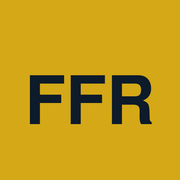
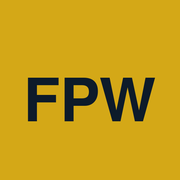
Rebrand: Florida Flamingo Report -> Florida Property Wire
Full rebrand per user request, done before any real deployment exists
(no live users/data at stake). Covers everywhere the old name/mark
showed up:

- All 12 templates: <title> tags, og:site_name/og:title/twitter:title,
  header/footer wordmark, "FFR" logo mark -> "FPW", copyright line,
  About page body copy.
- Static brand assets regenerated with the new "FPW" mark: favicon.svg
  (vector), favicon.ico, favicon-16x16.png, favicon-32x32.png,
  apple-touch-icon.png, og-image.png. Same approach as before —
  ImageMagick's own SVG rasterizer is unreliable for text positioning,
  so the PNGs were generated via its native text-draw primitive and
  verified visually before use.
- Python: urls.py module docstring, one test assertion string.
- CLAUDE.md: title + repo-path references.
- CI/infra: VPS deploy path in ci.yml, DB_NAME/DB_USER (ffr -> fpw)
  across ci.yml, .env.example, backend/.env.example, both settings
  files. backend/pyproject.toml's package name (fpr-backend -> an even
  older brand's initials -> fpw-backend), uv.lock regenerated to match.
- Deleted dead .fpr-* CSS utility classes (leftover from that same
  older brand, confirmed unused in any template) rather than renaming
  them.
- GitHub repo renamed florida-flamingo-report -> florida-property-wire
  (GitHub auto-redirects the old URL; local git remote updated
  automatically by `gh repo rename`).

Also fixed a real, unrelated bug surfaced while testing this: fixtures
[…]

Changed region(s): [[0.1389, 0.4167, 0.8611, 0.6944]]

diff --git a/backend/templates/base.html b/backend/templates/base.html
@@ -14,7 +14,7 @@
   without hitting that limit — optional, with sane defaults via the
   `default` filter for any page that doesn't pass one.
   {% endcomment %}
-  <title>{% block title %}Florida Flamingo Report{% endblock %}</title>
+  <title>{% block title %}Florida Property Wire{% endblock %}</title>
 
   <meta name="description" content="{{ meta_description|default:'Notable sales, agent moves, market trends, and neighborhood intelligence across Florida.' }}" />
 
@@ -23,9 +23,9 @@
   <link rel="apple-touch-icon" href="{% static 'apple-touch-icon.png' %}" />
 
   {# Open Graph — controls how links look when shared on Slack/Facebook/etc. #}
-  <meta property="og:site_name" content="Florida Flamingo Report" />
+  <meta property="og:site_name" content="Florida Property Wire" />
   <meta property="og:type" content="{{ og_type|default:'website' }}" />
-  <meta property="og:title" content="{{ page_title|default:'Florida Flamingo Report' }}" />
+  <meta property="og:title" content="{{ page_title|default:'Florida Property Wire' }}" />
   <meta property="og:description" content="{{ meta_description|default:'Notable sales, agent moves, market trends, and neighborhood intelligence across Florida.' }}" />
   {% if og_image %}
   <meta property="og:image" content="{{ og_image }}" />
@@ -36,7 +36,7 @@
 
   {# Twitter Card — same content, Twitter's own meta tag names #}
   <meta name="twitter:card" content="summary_large_image" />
-  <meta name="twitter:title" content="{{ page_title|default:'Florida Flamingo Report' }}" />
+  <meta name="twitter:title" content="{{ page_title|default:'Florida Property Wire' }}" />
   <meta name="twitter:description" content="{{ meta_description|default:'Notable sales, agent moves, market trends, and neighborhood intelligence across Florida.' }}" />
   {% if og_image %}
   <meta name="twitter:image" content="{{ og_image }}" />
@@ -63,10 +63,10 @@
         {# Logo + Masthead #}
         <a href="/" class="flex items-center gap-3 group">
           <div class="bg-[#d4a817] text-black font-bold text-xl px-2 py-1 flex items-center justify-center h-10 w-10">
-            FFR
+            FPW
           </div>
           <div>
-            <h1 class="font-serif text-2xl md:text-3xl font-bold tracking-tight">Florida Flamingo Report</h1>
+            <h1 class="font-serif text-2xl md:text-3xl font-bold tracking-tight">Florida Property Wire</h1>
             <p class="text-gray-400 text-xs md:text-sm tracking-wide hidden md:block">
               Notable sales, agent moves, market trends, and neighborhood intelligence across Florida.
             </p>
@@ -150,11 +150,11 @@
   <footer class="w-full border-t border-gray-200 bg-white py-12 px-4 md:px-8 mt-auto">
     <div class="max-w-7xl mx-auto flex flex-col md:flex-row justify-between items-center gap-6">
       <div class="flex items-center gap-3 opacity-50 grayscale">
-        <div class="bg-[#0d1b2a] text-white font-bold text-xl px-2 py-1 flex items-center justify-center h-10 w-10">FFR</div>
-        <span class="font-serif font-bold text-lg">Florida Flamingo Report</span>
+        <div class="bg-[#0d1b2a] text-white font-bold text-xl px-2 py-1 flex items-center justify-center h-10 w-10">FPW</div>
+        <span class="font-serif font-bold text-lg">Florida Property Wire</span>
       </div>
       <div class="flex items-center gap-4 text-sm text-gray-500">
-        <span>&copy; 2024 Florida Flamingo Report. All rights reserved.</span>
+        <span>&copy; 2024 Florida Property Wire. All rights reserved.</span>
         <a href="{% url 'article_archive' %}" class="hover:text-gray-700 underline">Articles</a>
         <a href="{% url 'unsubscribe' %}" class="hover:text-gray-700 underline">Unsubscribe</a>
       </div>

diff --git a/backend/templates/about.html b/backend/templates/about.html
@@ -1,13 +1,13 @@
 {% extends "base.html" %}
 
-{% block title %}About — Florida Flamingo Report{% endblock %}
+{% block title %}About — Florida Property Wire{% endblock %}
 
 {% block content %}
 
 <!-- Page Header -->
 <div class="w-full bg-white border-b border-gray-200 py-8 px-4 md:px-8">
   <div class="max-w-7xl mx-auto">
-    <h1 class="font-serif text-4xl md:text-5xl font-bold text-[#0d1b2a]">About Florida Flamingo Report</h1>
+    <h1 class="font-serif text-4xl md:text-5xl font-bold text-[#0d1b2a]">About Florida Property Wire</h1>
     <p class="text-lg text-gray-500 mt-2">Florida real estate intelligence, without the fluff.</p>
   </div>
 </div>
@@ -16,7 +16,7 @@
   <div class="bg-white border border-gray-200 rounded-sm shadow-sm p-8 md:p-12 prose prose-lg max-w-none text-gray-800">
 
     <p>
-      Florida Flamingo Report covers the deals, agents, and neighborhoods
+      Florida Property Wire covers the deals, agents, and neighborhoods
       shaping Florida real estate — notable sales, agent moves, market
       trends, luxury closings, and development news across South Florida,
       Tampa Bay, Orlando, Jacksonville, and the Panhandle.
@@ -45,7 +45,7 @@
 
   <!-- Subscribe CTA -->
   <div class="bg-[#0f4c5c] text-white rounded-sm p-8 shadow-sm flex flex-col items-center text-center mt-8">
-    <h3 class="font-serif font-bold text-2xl mb-2">Subscribe to Florida Flamingo Report</h3>
+    <h3 class="font-serif font-bold text-2xl mb-2">Subscribe to Florida Property Wire</h3>
     <p class="text-sm text-gray-200 mb-6 leading-relaxed max-w-md">
       Notable sales, agent moves, and market intelligence — delivered weekly.
     </p>

diff --git a/backend/static/css/input.css b/backend/static/css/input.css
@@ -22,18 +22,6 @@
   --font-family-sans: Inter, system-ui, sans-serif;
 }
 
-/* ── Brand color utilities ────────────────────────────────────────────────── */
-/* These custom classes mirror what the React app defined in index.css.        */
-/* They are plain CSS — Tailwind will include them because they're in input.css */
-
-.fpr-navy      { background-color: #0d1b2a; }
-.fpr-teal      { background-color: #0f4c5c; }
-.fpr-gold      { color: #d4a817; }
-.fpr-gold-bg   { background-color: #d4a817; }
-.fpr-coral     { color: #e05c4b; }
-.fpr-coral-bg  { background-color: #e05c4b; }
-.fpr-green     { color: #2e7d32; }
-
 /* ── Scrollbar-hiding utility ─────────────────────────────────────────────── */
 /* Used on the main nav and market strip: overflow-x-auto still lets a narrow
    viewport scroll them horizontally instead of wrapping/breaking layout, but

diff --git a/backend/templates/home.html b/backend/templates/home.html
@@ -4,7 +4,7 @@ This template extends base.html — Django renders base.html and fills its named
 block slots with the content defined below.
 {% endcomment %}
 
-{% block title %}Florida Flamingo Report — Florida Real Estate Intelligence{% endblock %}
+{% block title %}Florida Property Wire — Florida Real Estate Intelligence{% endblock %}
 
 {% block content %}
 <main class="flex-1 w-full max-w-7xl mx-auto px-4 md:px-8 py-8 md:py-10 flex flex-col gap-10">

diff --git a/backend/static/css/output.css b/backend/static/css/output.css
@@ -1747,27 +1747,6 @@
     }
   }
 }
-.fpr-navy {
-  background-color: #0d1b2a;
-}
-.fpr-teal {
-  background-color: #0f4c5c;
-}
-.fpr-gold {
-  color: #d4a817;
-}
-.fpr-gold-bg {
-  background-color: #d4a817;
-}
-.fpr-coral {
-  color: #e05c4b;
-}
-.fpr-coral-bg {
-  background-color: #e05c4b;
-}
-.fpr-green {
-  color: #2e7d32;
-}
 .no-scrollbar {
   scrollbar-width: none;
   -ms-overflow-style: none;

diff --git a/backend/templates/article_detail.html b/backend/templates/article_detail.html
@@ -1,6 +1,6 @@
 {% extends "base.html" %}
 
-{% block title %}{{ article.headline }} — Florida Flamingo Report{% endblock %}
+{% block title %}{{ article.headline }} — Florida Property Wire{% endblock %}
 
 {% block content %}
 <main class="flex-1 w-full max-w-7xl mx-auto px-4 md:px-8 py-8 flex flex-col lg:flex-row gap-10">

diff --git a/backend/templates/notable_sale_detail.html b/backend/templates/notable_sale_detail.html
@@ -1,6 +1,6 @@
 {% extends "base.html" %}
 
-{% block title %}{{ sale.title }} — Florida Flamingo Report{% endblock %}
+{% block title %}{{ sale.title }} — Florida Property Wire{% endblock %}
 
 {% block content %}
 <main class="flex-1 w-full max-w-7xl mx-auto px-4 md:px-8 py-8 flex flex-col lg:flex-row gap-10">

diff --git a/backend/templates/500.html b/backend/templates/500.html
@@ -3,7 +3,7 @@
 <head>
   <meta charset="UTF-8" />
   <meta name="viewport" content="width=device-width, initial-scale=1.0" />
-  <title>Something Went Wrong — Florida Flamingo Report</title>
+  <title>Something Went Wrong — Florida Property Wire</title>
   <style>
     body {
       margin: 0;

diff --git a/backend/templates/neighborhoods.html b/backend/templates/neighborhoods.html
@@ -1,6 +1,6 @@
 {% extends "base.html" %}
 
-{% block title %}Neighborhood Watch — Florida Flamingo Report{% endblock %}
+{% block title %}Neighborhood Watch — Florida Property Wire{% endblock %}
 
 {% block content %}
 

diff --git a/backend/templates/404.html b/backend/templates/404.html
@@ -1,6 +1,6 @@
 {% extends "base.html" %}
 
-{% block title %}Page Not Found — Florida Flamingo Report{% endblock %}
+{% block title %}Page Not Found — Florida Property Wire{% endblock %}
 
 {% block content %}
 

diff --git a/backend/templates/notable_sales.html b/backend/templates/notable_sales.html
@@ -1,6 +1,6 @@
 {% extends "base.html" %}
 
-{% block title %}Notable Sales — Florida Flamingo Report{% endblock %}
+{% block title %}Notable Sales — Florida Property Wire{% endblock %}
 
 {% block content %}
 

diff --git a/backend/templates/market_pulse.html b/backend/templates/market_pulse.html
@@ -1,6 +1,6 @@
 {% extends "base.html" %}
 
-{% block title %}Market Pulse — Florida Flamingo Report{% endblock %}
+{% block title %}Market Pulse — Florida Property Wire{% endblock %}
 
 {% block content %}
 
